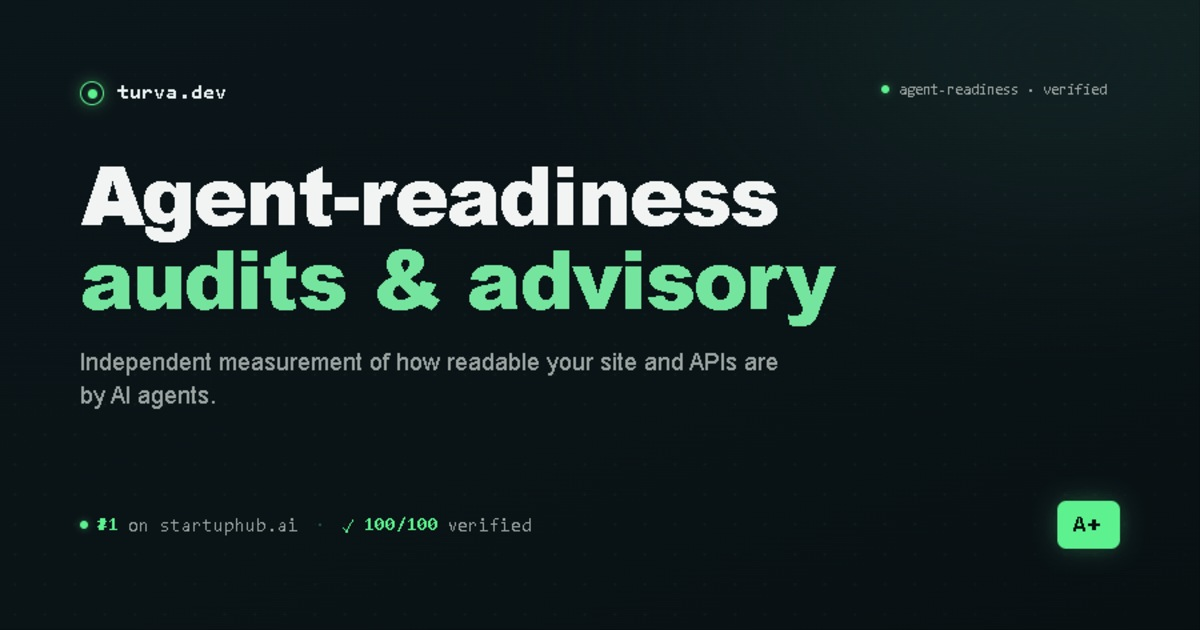
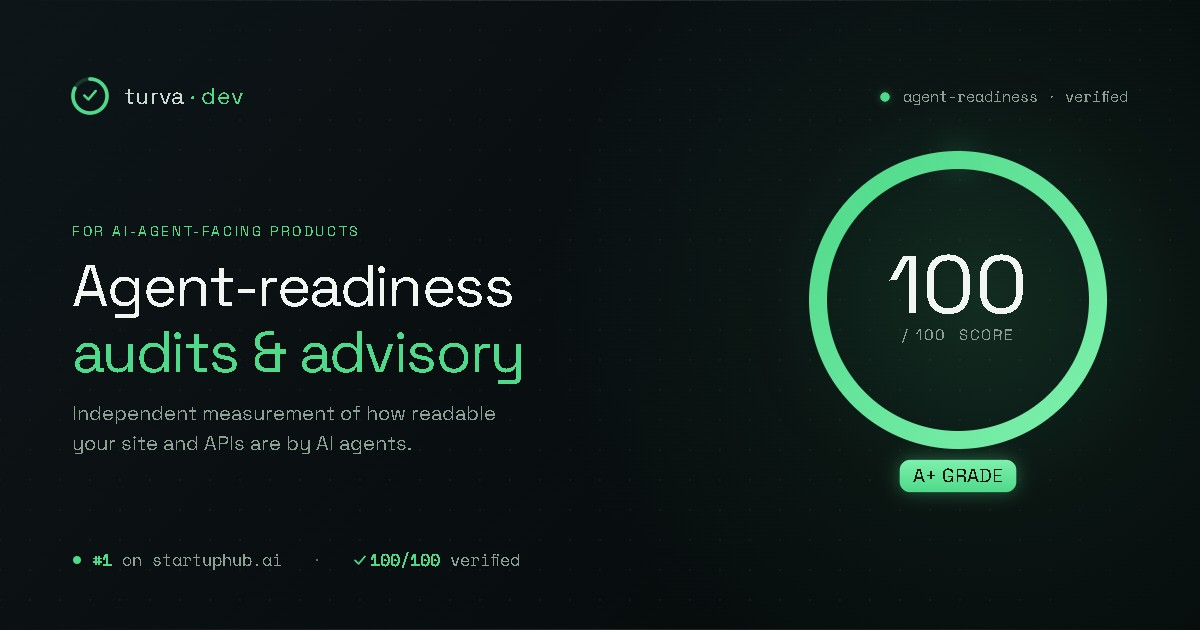
Honest /oauth/authorize and /oauth/token, remove dead agent.json route, standardize leaderboard claim, clean inner .gitignore, strip LICENSE BOM

diff --git a/turvadev-pretender/src/worker.js b/turvadev-pretender/src/worker.js
@@ -544,11 +544,11 @@ Find me on the fediverse at [@[email redacted]](https://social.turva.dev/@erik). F
 
 Independent, measured audits and advisory for the way AI agents read your site and act on it. Agent-readiness is the measurable starting point, scored by independent scanners. The wider work is the data those agents depend on and the decisions you let them make.
 
-#1 of all publicly-scanned sites on the startuphub.ai agent-readiness leaderboard. 100/100 verified by two independent scanners. Business ID 3600281-7.
+#1 of publicly-scanned sites on the startuphub.ai agent-readiness leaderboard. 100/100 verified by two independent scanners. Business ID 3600281-7.
 
 ## Independent agent-readiness scan of turva.dev
 
-Scanner: startuphub.ai (third party). Discoverability, Content, Access Control, Capabilities, Commerce, Quality: 100/100 each. Verified 100/100, A+, ranked #1 of all publicly-scanned sites on the startuphub.ai leaderboard.
+Scanner: startuphub.ai (third party). Discoverability, Content, Access Control, Capabilities, Commerce, Quality: 100/100 each. Verified 100/100, A+, ranked #1 of publicly-scanned sites on the startuphub.ai leaderboard.
 
 ## Where this applies
 
@@ -566,9 +566,9 @@ These are examples, not the list. The list does not really end. The same discipl
 
 ## Evidence
 
-turva.dev is my own reference build. It is ranked #1 of all publicly-scanned sites on the startuphub.ai agent-readiness leaderboard, with 100/100 verified by two independent scanners. Measured 2026-06-26.
+turva.dev is my own reference build. It is ranked #1 of publicly-scanned sites on the startuphub.ai agent-readiness leaderboard, with 100/100 verified by two independent scanners. Measured 2026-06-26.
 
-- startuphub.ai leaderboard: #1 of top 100 sites, 100/100 (A+). Discoverability, Content, Access Control, Capabilities, Commerce, Quality: 100/100 each. https://www.startuphub.ai/agent-readiness
+- startuphub.ai leaderboard: #1 of publicly-scanned sites, 100/100 (A+). Discoverability, Content, Access Control, Capabilities, Commerce, Quality: 100/100 each. https://www.startuphub.ai/agent-readiness
 - isitagentready.com: 100/100, Level 5 (Agent-Native). https://isitagentready.com/turva.dev
 
 The Cloudflare Worker that produces these results is open source: https://github.com/busygoat/turvadev-pretender. You can read every line before you hire me.
@@ -3537,14 +3537,14 @@ ${FOOTER_CSS}
 
   <section class="sec">
     <h2>Evidence</h2>
-    <p>turva.dev is my own reference build. It is ranked #1 of all publicly-scanned sites on the startuphub.ai agent-readiness leaderboard, with 100/100 verified by two independent scanners. Measured 2026-06-26.</p>
+    <p>turva.dev is my own reference build. It is ranked #1 of publicly-scanned sites on the startuphub.ai agent-readiness leaderboard, with 100/100 verified by two independent scanners. Measured 2026-06-26.</p>
     <div class="stats">
       <div class="stat"><span class="stat-v">#1</span><span class="stat-l">of publicly-scanned sites on startuphub.ai</span></div>
       <div class="stat"><span class="stat-v">100/100</span><span class="stat-l">verified by two independent scanners</span></div>
       <div class="stat"><span class="stat-v">Level 5</span><span class="stat-l">agent-native, isitagentready.com</span></div>
     </div>
     <ul class="evlist">
-      <li>startuphub.ai leaderboard: #1 of top 100 sites, 100/100 (A+). Discoverability, Content, Access Control, Capabilities, Commerce, Quality: 100/100 each. <a href="https://www.startuphub.ai/agent-readiness">startuphub.ai/agent-readiness</a></li>
+      <li>startuphub.ai leaderboard: #1 of publicly-scanned sites, 100/100 (A+). Discoverability, Content, Access Control, Capabilities, Commerce, Quality: 100/100 each. <a href="https://www.startuphub.ai/agent-readiness">startuphub.ai/agent-readiness</a></li>
       <li>isitagentready.com: 100/100, Level 5 (Agent-Native). <a href="https://isitagentready.com/turva.dev">isitagentready.com/turva.dev</a></li>
     </ul>
     <p>The Cloudflare Worker that produces these results is open source: <a href="https://github.com/busygoat/turvadev-pretender">github.com/busygoat/turvadev-pretender</a>. You can read every line before you hire me.</p>
@@ -4222,6 +4222,29 @@ async function serveAcpCheckout(request, pathLower) {
   return new Response(JSON.stringify({ "type": "invalid_request", "code": "not_found", "message": "Unknown checkout session route." }, null, 2), { status: 404, headers: acpHeaders() });
 }
 
+function serveOauthClosed(kind) {
+  // turva.dev publishes OAuth Authorization Server metadata so an agent can
+  // discover scopes and the registration entry point. It runs no interactive
+  // login and issues no tokens automatically, because nothing on the site sits
+  // behind a token. These endpoints therefore answer with a spec-valid error
+  // that points to the out-of-band agent-auth flow, instead of a 404, so the
+  // discovery document never advertises a path that does not respond.
+  var error = kind === "authorize" ? "access_denied" : "invalid_request";
+  var body = JSON.stringify({
+    error: error,
+    error_description: "turva.dev does not run an interactive OAuth login or issue tokens automatically. Agent access is arranged out of band. Register at https://turva.dev/agent/auth/register, read https://turva.dev/auth.md, or contact [email redacted].",
+    registration_endpoint: "https://turva.dev/agent/auth/register",
+    service_documentation: "https://turva.dev/auth.md"
+  }, null, 2);
+  var headers = new Headers({
+    "content-type": "application/json; charset=utf-8",
+    "cache-control": "no-store"
+  });
+  appendAgentLinks(headers);
+  applySecurityHeaders(headers, "agent-api");
+  return new Response(body, { status: 400, headers });
+}
+
 function serve402(pathname, route) {
   const resource = "https://turva.dev" + pathname;
   const body = build402Body(resource, route.label, route.amountUsdcMicro, route.amountEurCents, route.description);
@@ -4338,6 +4361,12 @@ async function handleRequest(request, env) {
   if (pathLower === "/agent/auth/revoke" || pathLower === "/agent/auth/revocation") {
     return serveStatic(buildAgentAuthInstruction("revocation"), "application/json; charset=utf-8", "agent-api");
   }
+  if (pathLower === "/oauth/authorize") {
+    return serveOauthClosed("authorize");
+  }
+  if (pathLower === "/oauth/token") {
+    return serveOauthClosed("token");
+  }
 
   if (X402_ROUTES[pathLower]) {
     const route = X402_ROUTES[pathLower];
@@ -4439,7 +4468,6 @@ async function handleRequest(request, env) {
     return serveStatic(ACP_MANIFEST, "application/json; charset=utf-8", "agent-api");
   }
   if (pathLower === "/.well-known/agent-card.json" ||
-      pathLower === "/.well-known/agent.json" ||
       pathLower === "/.well-known/a2a/agent-card.json") {
     return serveStatic(A2A_AGENT_CARD, "application/json; charset=utf-8", "agent-api");
   }

diff --git a/README.md b/README.md
@@ -2,7 +2,7 @@
 
 Cloudflare Worker that renders every page of [turva.dev](https://turva.dev) at the edge, with a deterministic head and matching `/.well-known/` manifests. AI agents and scanners read the same payload as humans, straight from the Worker.
 
-This repository is the open-source reference implementation behind turva.dev, which ranks first of all publicly-scanned sites on the startuphub.ai agent-readiness leaderboard and scores a perfect 100/100 Level 5 Agent-Native on Cloudflare Agent-Ready. The Worker is public on purpose: a buyer can read every line before deciding anything.
+This repository is the open-source reference implementation behind turva.dev, which ranks first of publicly-scanned sites on the startuphub.ai agent-readiness leaderboard and scores a perfect 100/100 Level 5 Agent-Native on Cloudflare Agent-Ready. The Worker is public on purpose: a buyer can read every line before deciding anything.
 
 turva.dev offers agent-readiness audits and advisory, and the wider work of making the data agents act on and the decisions they make reliable, across use cases from commerce and monitoring to operations under bad connectivity.
 
@@ -19,7 +19,7 @@ Measured on `https://turva.dev` on 2026-06-26. Two independent public scanners, 
 | Scanner | Result |
 |---|---|
 | Cloudflare Agent-Ready (isitagentready.com) | 100/100, Level 5 Agent-Native |
-| startuphub.ai Agent Readiness | 100/100 (A+), first of all publicly-scanned sites on the leaderboard |
+| startuphub.ai Agent Readiness | 100/100 (A+), first of publicly-scanned sites on the leaderboard |
 
 Cloudflare Agent-Ready and isitagentready.com are the same scanner on two domains, so they count as one result.
 